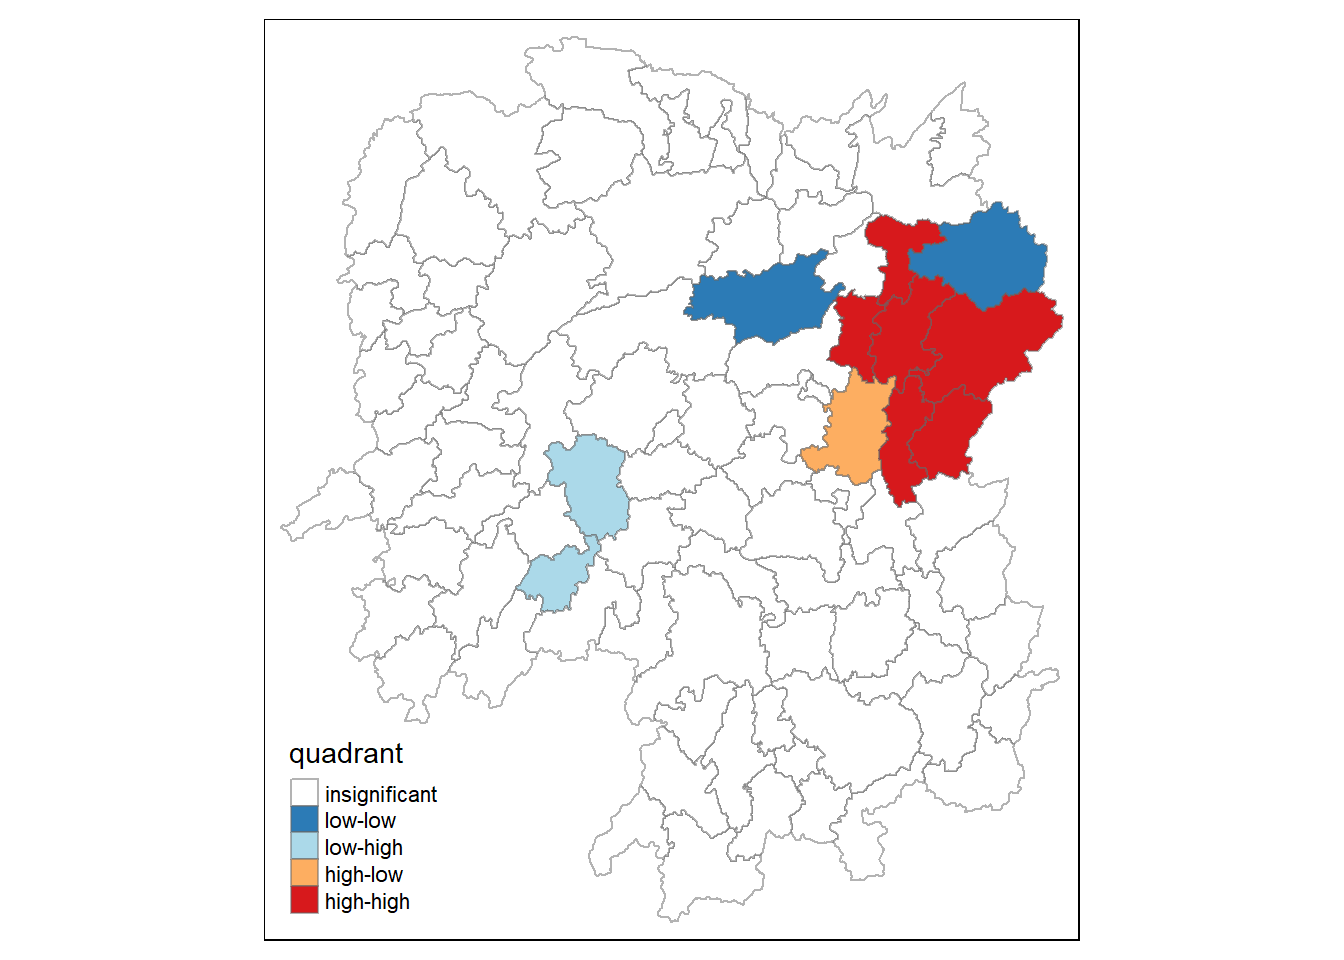
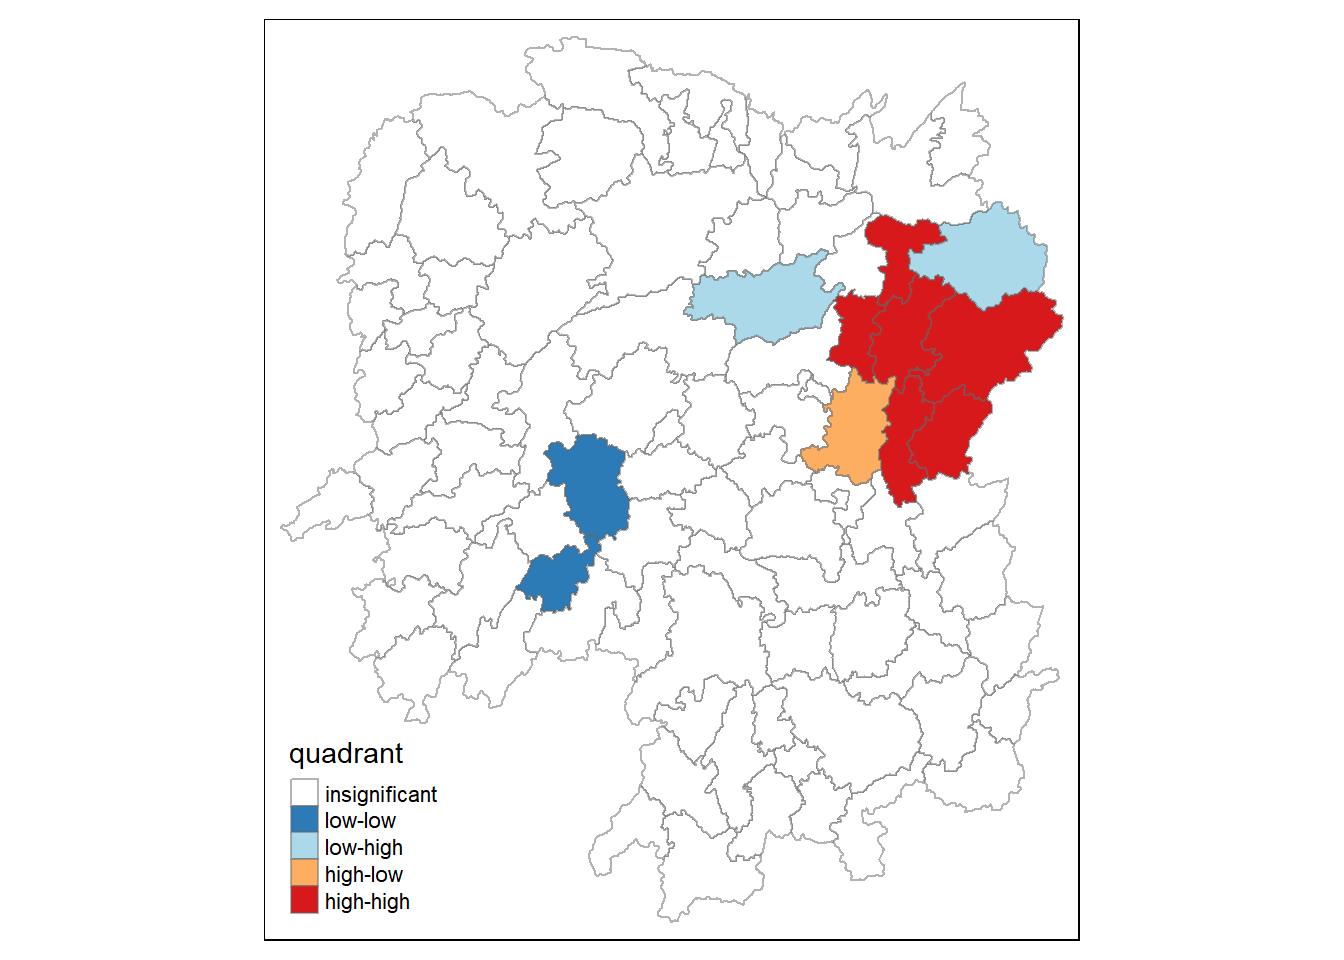
1

Changed region(s): [[0.375, 0.4375, 0.4688, 0.6562], [0.5, 0.25, 0.625, 0.375], [0.6562, 0.2188, 0.7812, 0.3438]]

diff --git a/_site/Hand-on_Ex/Hands-on_Ex2/Hands-on_Ex2.html b/_site/Hand-on_Ex/Hands-on_Ex2/Hands-on_Ex2.html
@@ -170,7 +170,7 @@ code span.wa { color: #60a0b0; font-weight: bold; font-style: italic; } /* Warni
     <a class="nav-link dropdown-toggle" href="#" id="nav-menu-take-home-exercise" role="button" data-bs-toggle="dropdown" aria-expanded="false">Take Home Exercise</a>
     <ul class="dropdown-menu" aria-labelledby="nav-menu-take-home-exercise">    
         <li>
-    <a class="dropdown-item" href="../../Take-Home_Ex/Take-Home_Ex1/Take-Home_Ex1.qmd">
+    <a class="dropdown-item" href="../../Take_Home_Ex/Take_Home_Ex1/Take_Home_Ex1.html">
  <span class="dropdown-text">Take-Home Exercise 1</span></a>
   </li>  
     </ul>
@@ -600,7 +600,7 @@ Geary C statistic       Expectation          Variance
         0.6907223         1.0000000         0.0073364 </code></pre>
 </div>
 </div>
-<p>As c values are less than 1, we can conclude values are dispersed and observations tend to be dissilimar. We reject the null hypothesis as p value is less than the significant value of 0.05%.</p>
+<p>As c values are less than 1, we can conclude values are dispersed and observations tend to be similar. We reject the null hypothesis as p value is less than the significant value of 0.05%.</p>
 <section id="computing-monte-carlo-gearys-c" class="level3">
 <h3 class="anchored" data-anchor-id="computing-monte-carlo-gearys-c">Computing Monte Carlo Geary’s C</h3>
 <p>Permutation test for Geary’s C Statistics is performed</p>
@@ -998,8 +998,8 @@ Zixing        -7.6849e-01 -8.8210e-02  9.4057e-01 -7.0144e-01         0.4830</co
 <span id="cb70-3"><a href="#cb70-3" aria-hidden="true" tabindex="-1"></a>C_mI <span class="ot">&lt;-</span> localMI[,<span class="dv">1</span>] <span class="sc">-</span> <span class="fu">mean</span>(localMI[,<span class="dv">1</span>])    </span>
 <span id="cb70-4"><a href="#cb70-4" aria-hidden="true" tabindex="-1"></a>signif <span class="ot">&lt;-</span> <span class="fl">0.05</span>       </span>
 <span id="cb70-5"><a href="#cb70-5" aria-hidden="true" tabindex="-1"></a>quadrant[DV <span class="sc">&gt;</span><span class="dv">0</span> <span class="sc">&amp;</span> C_mI<span class="sc">&gt;</span><span class="dv">0</span>] <span class="ot">&lt;-</span> <span class="dv">4</span>      </span>
-<span id="cb70-6"><a href="#cb70-6" aria-hidden="true" tabindex="-1"></a>quadrant[DV <span class="sc">&lt;</span><span class="dv">0</span> <span class="sc">&amp;</span> C_mI<span class="sc">&lt;</span><span class="dv">0</span>] <span class="ot">&lt;-</span> <span class="dv">1</span>      </span>
-<span id="cb70-7"><a href="#cb70-7" aria-hidden="true" tabindex="-1"></a>quadrant[DV <span class="sc">&lt;</span><span class="dv">0</span> <span class="sc">&amp;</span> C_mI<span class="sc">&gt;</span><span class="dv">0</span>] <span class="ot">&lt;-</span> <span class="dv">2</span></span>
+<span id="cb70-6"><a href="#cb70-6" aria-hidden="true" tabindex="-1"></a>quadrant[DV <span class="sc">&lt;</span><span class="dv">0</span> <span class="sc">&amp;</span> C_mI<span class="sc">&lt;</span><span class="dv">0</span>] <span class="ot">&lt;-</span> <span class="dv">2</span>      </span>
+<span id="cb70-7"><a href="#cb70-7" aria-hidden="true" tabindex="-1"></a>quadrant[DV <span class="sc">&lt;</span><span class="dv">0</span> <span class="sc">&amp;</span> C_mI<span class="sc">&gt;</span><span class="dv">0</span>] <span class="ot">&lt;-</span> <span class="dv">1</span></span>
 <span id="cb70-8"><a href="#cb70-8" aria-hidden="true" tabindex="-1"></a>quadrant[DV <span class="sc">&gt;</span><span class="dv">0</span> <span class="sc">&amp;</span> C_mI<span class="sc">&lt;</span><span class="dv">0</span>] <span class="ot">&lt;-</span> <span class="dv">3</span></span>
 <span id="cb70-9"><a href="#cb70-9" aria-hidden="true" tabindex="-1"></a>quadrant[localMI[,<span class="dv">5</span>]<span class="sc">&gt;</span>signif] <span class="ot">&lt;-</span> <span class="dv">0</span></span></code><button title="Copy to Clipboard" class="code-copy-button"><i class="bi"></i></button></pre></div>
 </div>

diff --git a/_site/Hand-on_Ex/Hands-on_Ex1/Hands-on_Ex1.html b/_site/Hand-on_Ex/Hands-on_Ex1/Hands-on_Ex1.html
@@ -170,7 +170,7 @@ code span.wa { color: #60a0b0; font-weight: bold; font-style: italic; } /* Warni
     <a class="nav-link dropdown-toggle" href="#" id="nav-menu-take-home-exercise" role="button" data-bs-toggle="dropdown" aria-expanded="false">Take Home Exercise</a>
     <ul class="dropdown-menu" aria-labelledby="nav-menu-take-home-exercise">    
         <li>
-    <a class="dropdown-item" href="../../Take-Home_Ex/Take-Home_Ex1/Take-Home_Ex1.qmd">
+    <a class="dropdown-item" href="../../Take_Home_Ex/Take_Home_Ex1/Take_Home_Ex1.html">
  <span class="dropdown-text">Take-Home Exercise 1</span></a>
   </li>  
     </ul>

diff --git a/_site/In-class_Ex/In-Class_Ex1/In-Class_Ex1.html b/_site/In-class_Ex/In-Class_Ex1/In-Class_Ex1.html
@@ -170,7 +170,7 @@ code span.wa { color: #60a0b0; font-weight: bold; font-style: italic; } /* Warni
     <a class="nav-link dropdown-toggle" href="#" id="nav-menu-take-home-exercise" role="button" data-bs-toggle="dropdown" aria-expanded="false">Take Home Exercise</a>
     <ul class="dropdown-menu" aria-labelledby="nav-menu-take-home-exercise">    
         <li>
-    <a class="dropdown-item" href="../../Take-Home_Ex/Take-Home_Ex1/Take-Home_Ex1.qmd">
+    <a class="dropdown-item" href="../../Take_Home_Ex/Take_Home_Ex1/Take_Home_Ex1.html">
  <span class="dropdown-text">Take-Home Exercise 1</span></a>
   </li>  
     </ul>

diff --git a/_site/Take_Home_Ex/Take_Home_Ex1/Take_Home_Ex1.html b/_site/Take_Home_Ex/Take_Home_Ex1/Take_Home_Ex1.html
@@ -107,7 +107,7 @@ ul.task-list li input[type="checkbox"] {
     <a class="nav-link dropdown-toggle" href="#" id="nav-menu-take-home-exercise" role="button" data-bs-toggle="dropdown" aria-expanded="false">Take Home Exercise</a>
     <ul class="dropdown-menu" aria-labelledby="nav-menu-take-home-exercise">    
         <li>
-    <a class="dropdown-item" href="../../Take-Home_Ex/Take-Home_Ex1/Take-Home_Ex1.qmd">
+    <a class="dropdown-item" href="../../Take_Home_Ex/Take_Home_Ex1/Take_Home_Ex1.html">
  <span class="dropdown-text">Take-Home Exercise 1</span></a>
   </li>  
     </ul>

diff --git a/_site/about.html b/_site/about.html
@@ -107,7 +107,7 @@ ul.task-list li input[type="checkbox"] {
     <a class="nav-link dropdown-toggle" href="#" id="nav-menu-take-home-exercise" role="button" data-bs-toggle="dropdown" aria-expanded="false">Take Home Exercise</a>
     <ul class="dropdown-menu" aria-labelledby="nav-menu-take-home-exercise">    
         <li>
-    <a class="dropdown-item" href="./Take-Home_Ex/Take-Home_Ex1/Take-Home_Ex1.qmd">
+    <a class="dropdown-item" href="./Take_Home_Ex/Take_Home_Ex1/Take_Home_Ex1.html">
  <span class="dropdown-text">Take-Home Exercise 1</span></a>
   </li>  
     </ul>

diff --git a/_site/index.html b/_site/index.html
@@ -107,7 +107,7 @@ ul.task-list li input[type="checkbox"] {
     <a class="nav-link dropdown-toggle" href="#" id="nav-menu-take-home-exercise" role="button" data-bs-toggle="dropdown" aria-expanded="false">Take Home Exercise</a>
     <ul class="dropdown-menu" aria-labelledby="nav-menu-take-home-exercise">    
         <li>
-    <a class="dropdown-item" href="./Take-Home_Ex/Take-Home_Ex1/Take-Home_Ex1.qmd">
+    <a class="dropdown-item" href="./Take_Home_Ex/Take_Home_Ex1/Take_Home_Ex1.html">
  <span class="dropdown-text">Take-Home Exercise 1</span></a>
   </li>  
     </ul>
